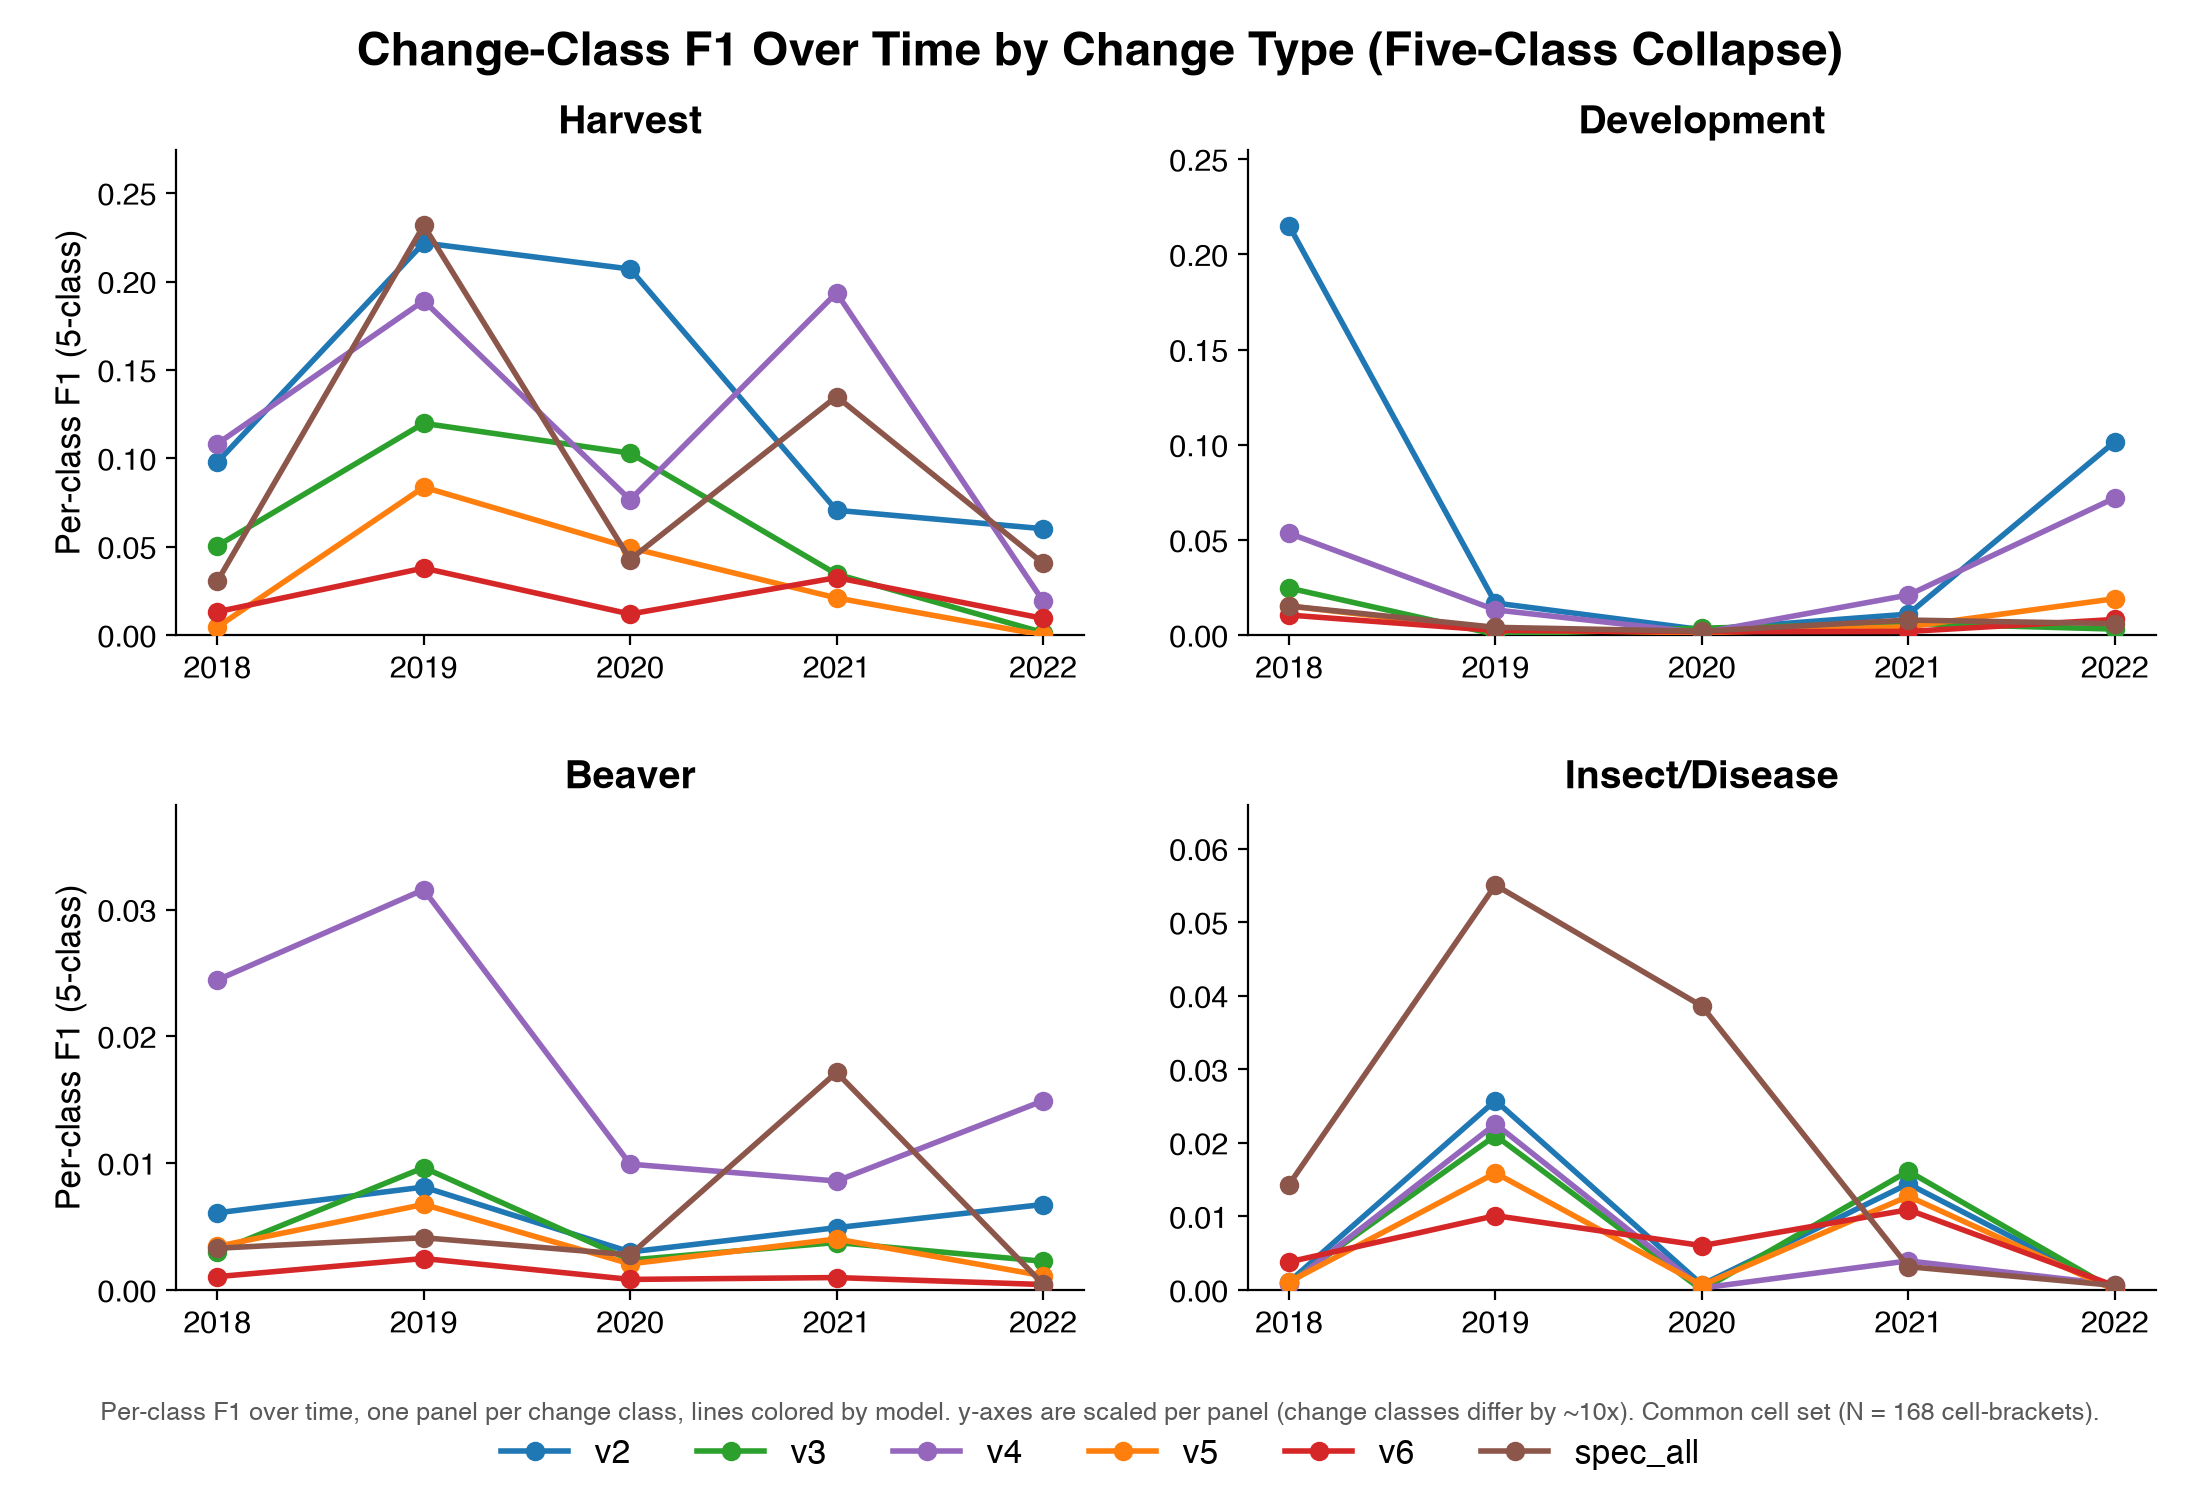
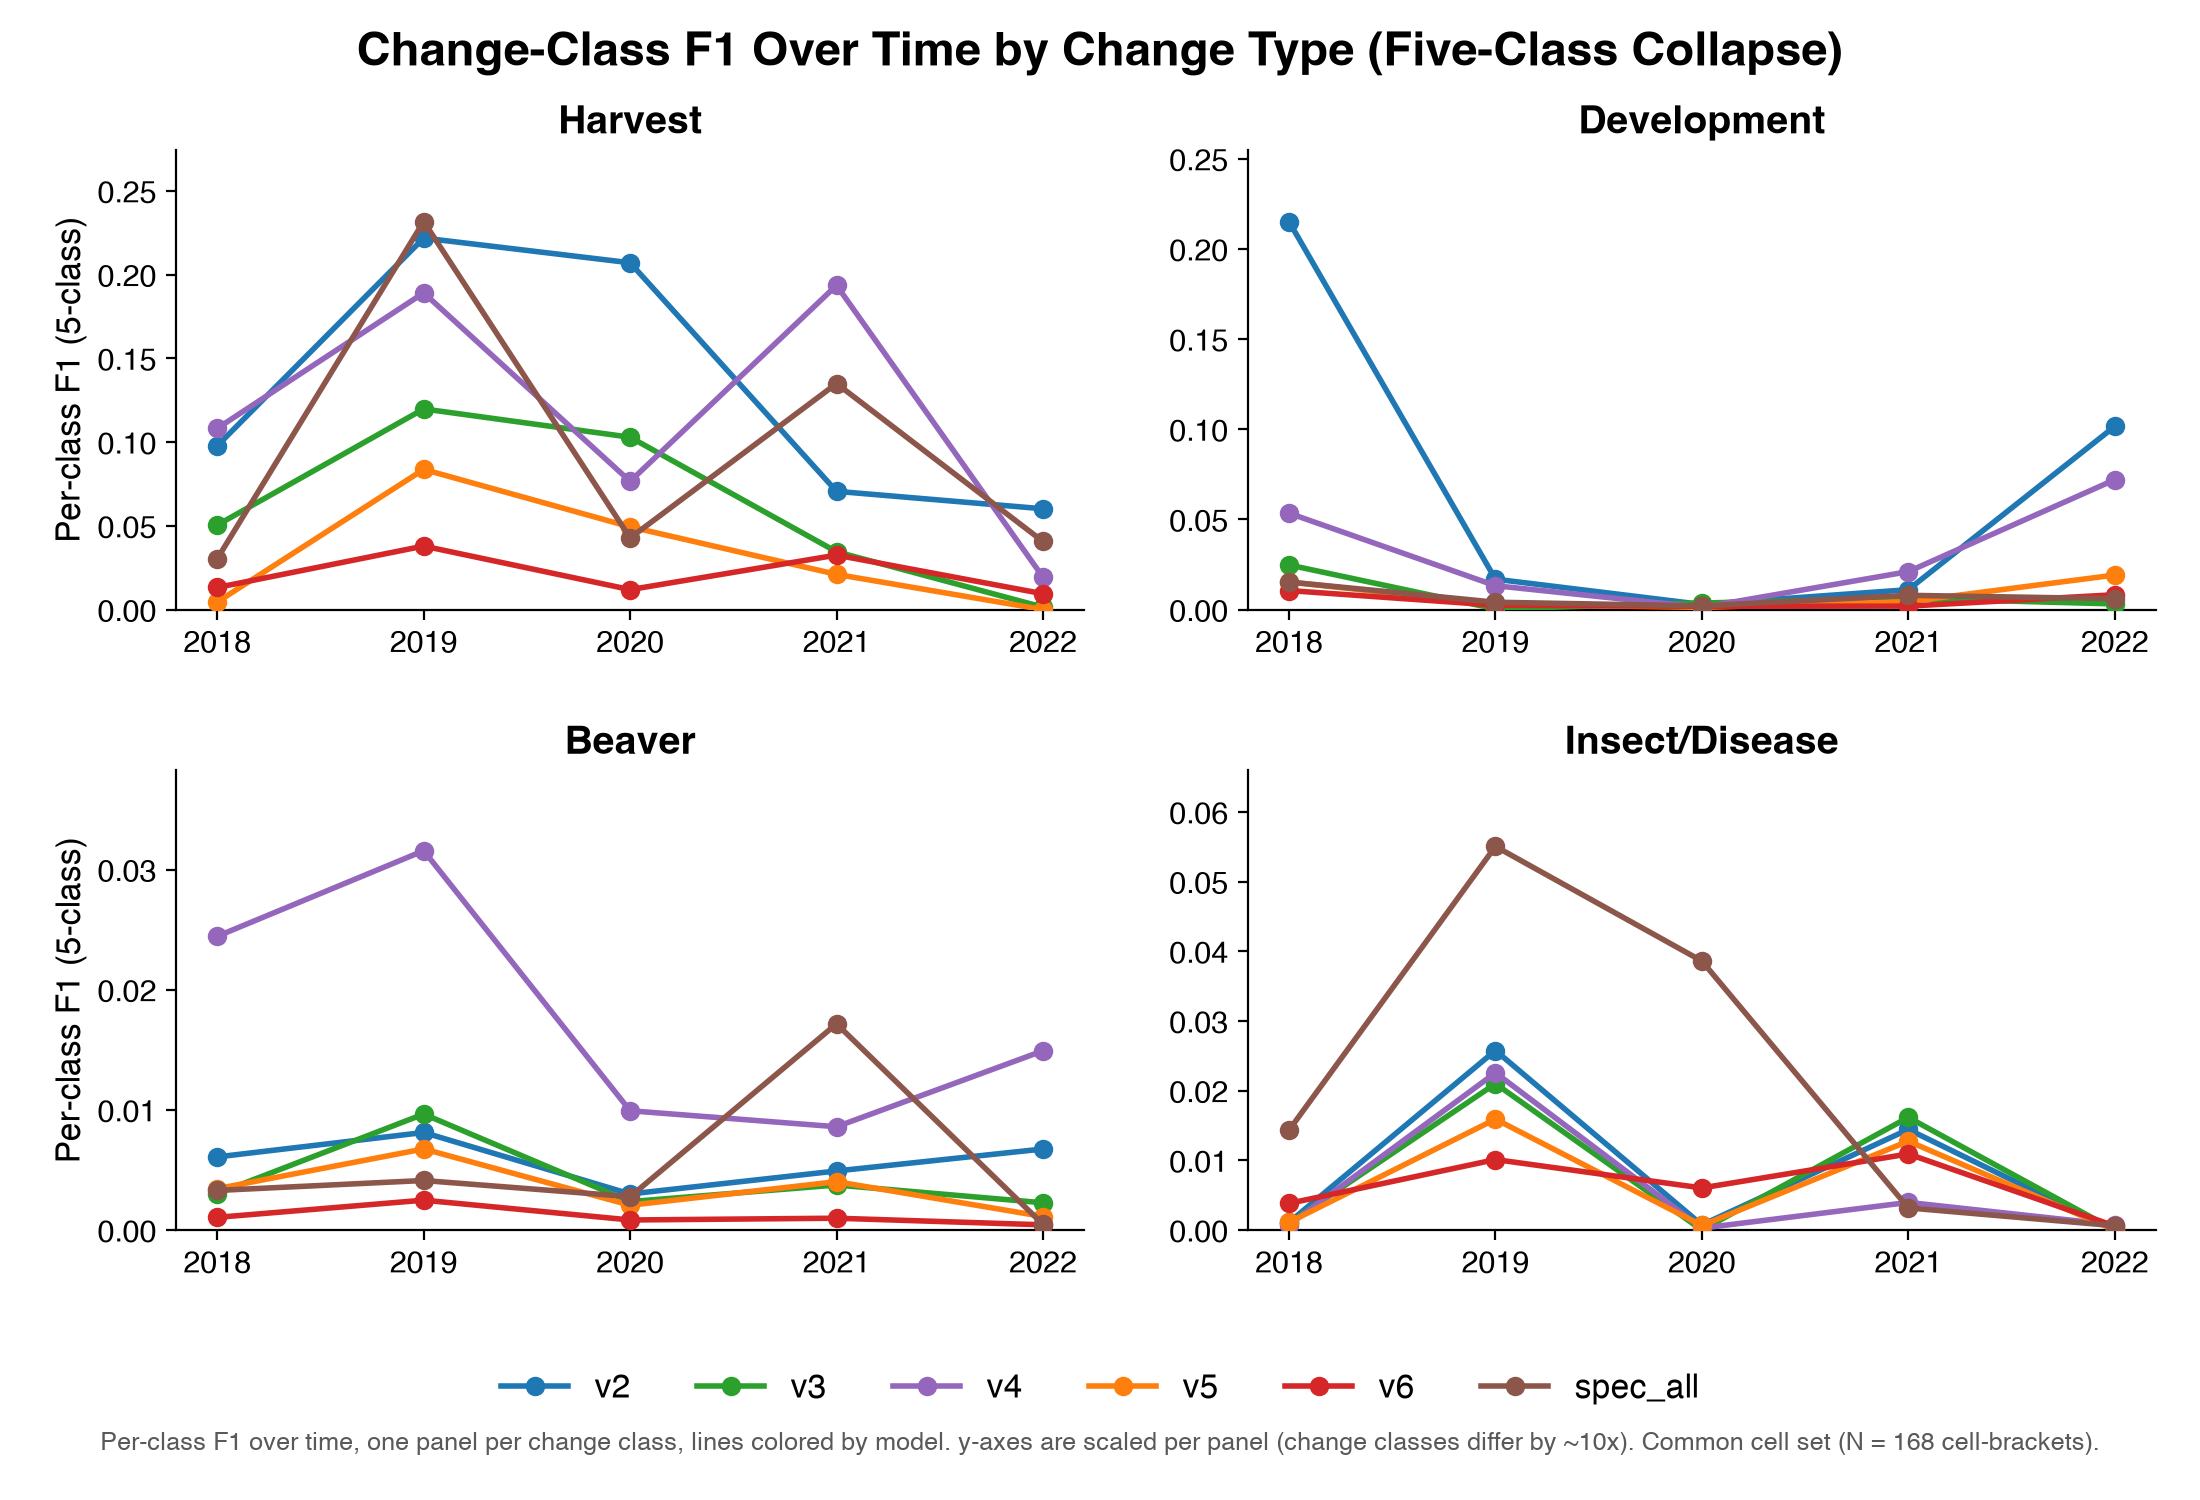
changeclass F1 over time: move caption below the legend with a gap (both versions)

diff --git a/scripts/changeclass_f1_over_time_5class.py b/scripts/changeclass_f1_over_time_5class.py
@@ -87,15 +87,15 @@ def main():
         ax.set_ylabel("Per-class F1 (5-class)", fontsize=12)
 
     handles, labels = axes.ravel()[0].get_legend_handles_labels()
-    fig.legend(handles, labels, ncol=4, fontsize=12, frameon=False, loc="lower center",
-               bbox_to_anchor=(0.5, 0.0))
+    fig.legend(handles, labels, ncol=4, fontsize=12, frameon=False, loc="upper center",
+               bbox_to_anchor=(0.5, 0.105))
     fig.suptitle("Change-Class F1 Over Time by Model (Five-Class Collapse)", fontsize=17,
                  fontweight="bold", y=0.98)
-    fig.text(0.5, 0.055, f"Per-class F1 for the four change classes across temporal brackets, "
+    fig.text(0.5, 0.03, f"Per-class F1 for the four change classes across temporal brackets, "
              f"common cell set (N = {n_cells} cell-brackets). Bracket cell counts: "
              + ", ".join(f"{_blab(b)}: {per_bracket_n[b]}" for b in BRACKETS) + ".",
              ha="center", va="bottom", fontsize=9, color="0.35")
-    fig.subplots_adjust(left=0.06, right=0.98, top=0.9, bottom=0.16, hspace=0.35, wspace=0.12)
+    fig.subplots_adjust(left=0.06, right=0.98, top=0.9, bottom=0.18, hspace=0.35, wspace=0.12)
 
     fig.savefig(os.path.join(OUT, "changeclass_f1_over_time_5class.png"), dpi=200)
     plt.close(fig)
@@ -119,15 +119,15 @@ def main():
         ax.set_ylabel("Per-class F1 (5-class)", fontsize=12)
 
     handles, labels = axes2.ravel()[0].get_legend_handles_labels()
-    fig2.legend(handles, labels, ncol=6, fontsize=12, frameon=False, loc="lower center",
-                bbox_to_anchor=(0.5, 0.0))
+    fig2.legend(handles, labels, ncol=6, fontsize=12, frameon=False, loc="upper center",
+                bbox_to_anchor=(0.5, 0.105))
     fig2.suptitle("Change-Class F1 Over Time by Change Type (Five-Class Collapse)", fontsize=17,
                   fontweight="bold", y=0.98)
-    fig2.text(0.5, 0.05, f"Per-class F1 over time, one panel per change class, lines colored by model. "
+    fig2.text(0.5, 0.03, f"Per-class F1 over time, one panel per change class, lines colored by model. "
               f"y-axes are scaled per panel (change classes differ by ~10x). "
               f"Common cell set (N = {n_cells} cell-brackets).", ha="center", va="bottom",
               fontsize=9, color="0.35")
-    fig2.subplots_adjust(left=0.08, right=0.98, top=0.9, bottom=0.14, hspace=0.35, wspace=0.18)
+    fig2.subplots_adjust(left=0.08, right=0.98, top=0.9, bottom=0.18, hspace=0.35, wspace=0.18)
     fig2.savefig(os.path.join(OUT, "changeclass_f1_over_time_5class_by_class.png"), dpi=200)
     plt.close(fig2)
 
